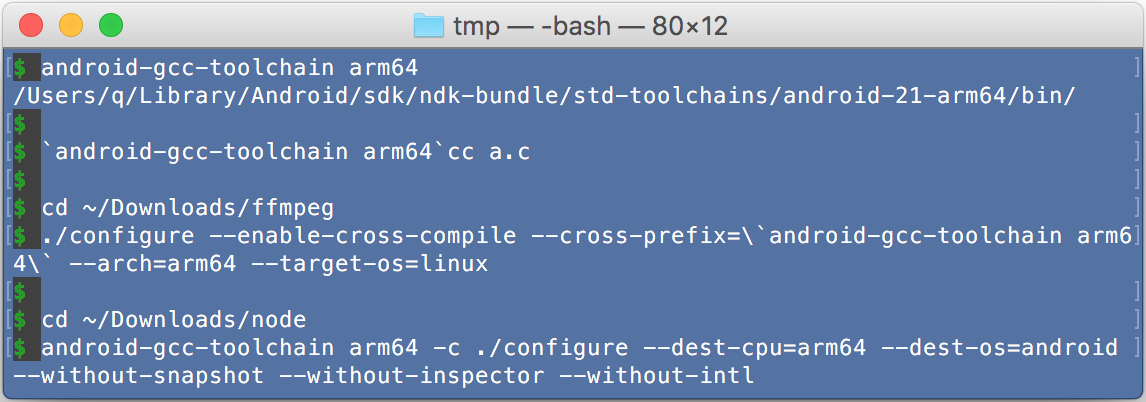
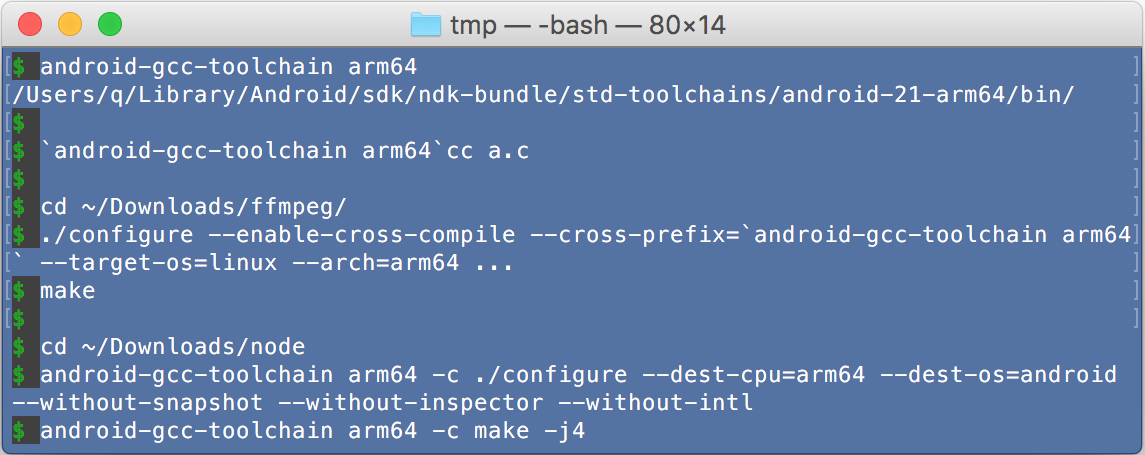
doc

Changed region(s): [[0.0, 0.0, 1.0, 1.0]]

diff --git a/README.md b/README.md
@@ -28,17 +28,26 @@ Should also works on Linux (not tested yet).
 - **Cross-compile gyp/autoconf project easily.**
 
     - For gyp build, e.g. Node.JS:
-
-    ```
-    $ android-gcc-toolchain arm64 -c ./configure --dest-cpu=arm64 --dest-os=android --without-snapshot --without-inspector --without-intl 
-    $ android-gcc-toolchain arm64 -c make -j4 
-    ```
+    
+        ```
+        $ android-gcc-toolchain arm64 -c ./configure --dest-cpu=arm64 --dest-os=android --without-snapshot --without-inspector --without-intl 
+        $ android-gcc-toolchain arm64 -c make -j4 
+        ```
+    
+        The `-c` means pass env `CC=toolchain's gcc`... to later command. 
+        To pass env `CC_target`, use `-C` option.
+        
+        <sub>
+        Besides, normally, once configure ok, $CC is saved to Makefile so can just call `make`, 
+        but some sub project may still depends on $CC, so it's safe to wrap the `make` command with this tool.
+        </sub>
+    
     - For autoconf build, e.g. ffmpeg:
-
-    ```
-    $ ./configure --enable-cross-compile --cross-prefix=`android-gcc-toolchain arm64` --target-os=linux ...
-    $ make -j4
-    ```
+    
+        ```
+        $ ./configure --enable-cross-compile --cross-prefix=`android-gcc-toolchain arm64` --target-os=linux --arch=arm64 ...
+        $ make -j4
+        ```
 
 - **Enter a dedicated environment where can run android gcc related commands directly.**
 
